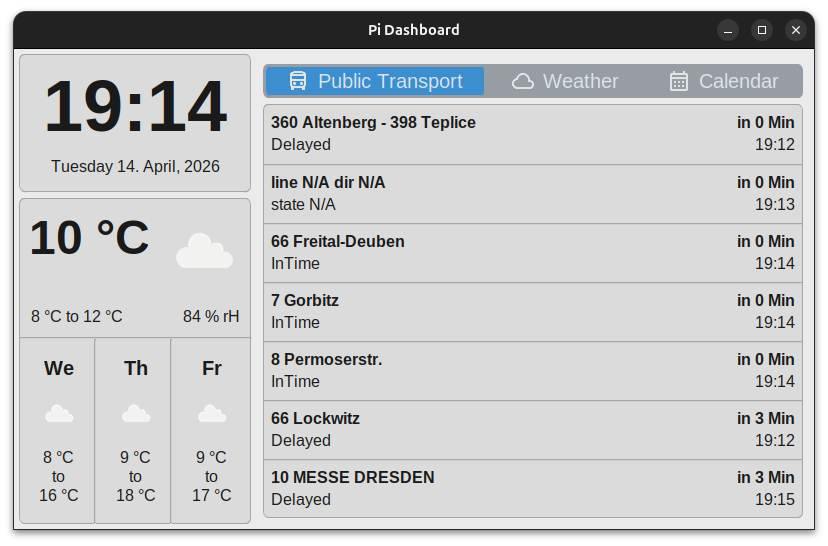
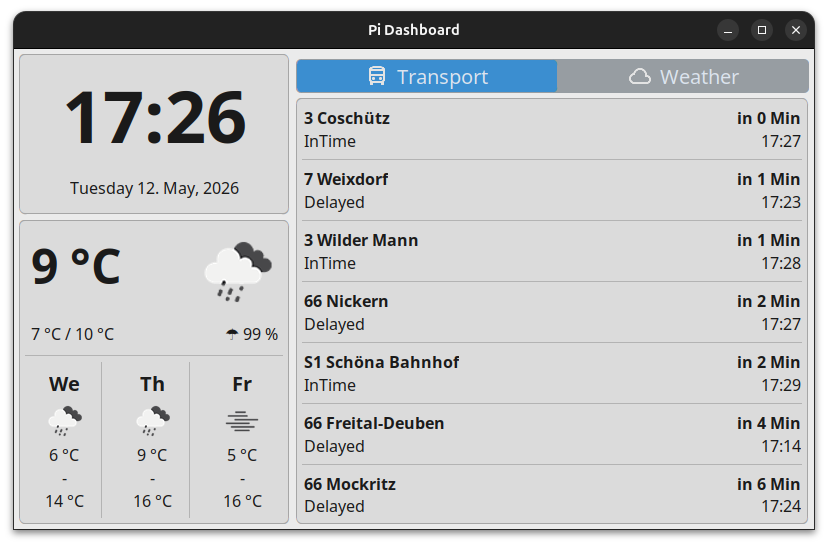
Updated readme and preview images

diff --git a/README.md b/README.md
@@ -1,5 +1,53 @@
-# Python_Pi_Dashboard
-
-![Python Dashboard Preview](/preview.png)
+# Python Pi Dashboard
 
 Second version of my raspberry pi dashboard. A desktop application made with custom tkinter.
+![Python Dashboard Preview](/preview.png)
+![Python Dashboard Weather Preview](/preview_weather.png)
+# Setup
+## Hardware Requirements
+The dashboard is meant to be used with the 800 x 480 Pixel version of the raspberry-pi Touchscreen. Font sizes and all UI elements are optimized for this display.
+
+## After cloning the repository it is important to create a virtual environment.
+Open a terminal inside of the repository and execute the following command.
+
+```
+python -m venv venv
+```
+
+Then install all the dependencies with pip.
+```
+./bin/pip install requirements.txt
+```
+
+Then you can execute the application with.
+```
+./bin/python main.py
+```
+
+
+## Setting Weather and Public Transport
+Weather location and the public transport stop can be set in `config.py`. 
+```
+STOP_ID = 33000028
+LOCATION = (51.0509, 13.7383)
+```
+
+## Font Sizes and Style
+Fonts can be adjusted in `style.py`. The amount of displayed transport and weather forecast panels can be set too. Be aware that this might require changes to the requests. The requests only gather a limited amount of information.
+```
+PADDING_TEXT = 8
+DEFAULT_FONT = ('Piboto', 16)
+DEFAULT_FONT_BOLD = ('Piboto', 16, 'bold')
+CLOCK_FONT = ('Piboto', 72, 'bold')
+WEATHER_FONT = ('Piboto', 48, 'bold')
+WEATHER_DAY_FONT = ('Piboto', 20, 'bold')
+WEATHER_DAY_IMAGE_SIZE = 96
+WEATHER_FORECAST_IMAGE_SIZE = 48
+TAB_FONT =('Piboto', 20)
+FORECAST_FONT_BOLD =('Piboto', 16, 'bold')
+FORECAST_FONT_REG =('Piboto', 16)
+FORECAST_FONT_LIGHT =('Piboto', 10)
+PUBLIC_TRANSPORT_ENTRIES = 7
+WEATHER_FORECAST_ENTRIES = 7
+TRANSPORT_ENTRY_CUTOFF = 25
+```